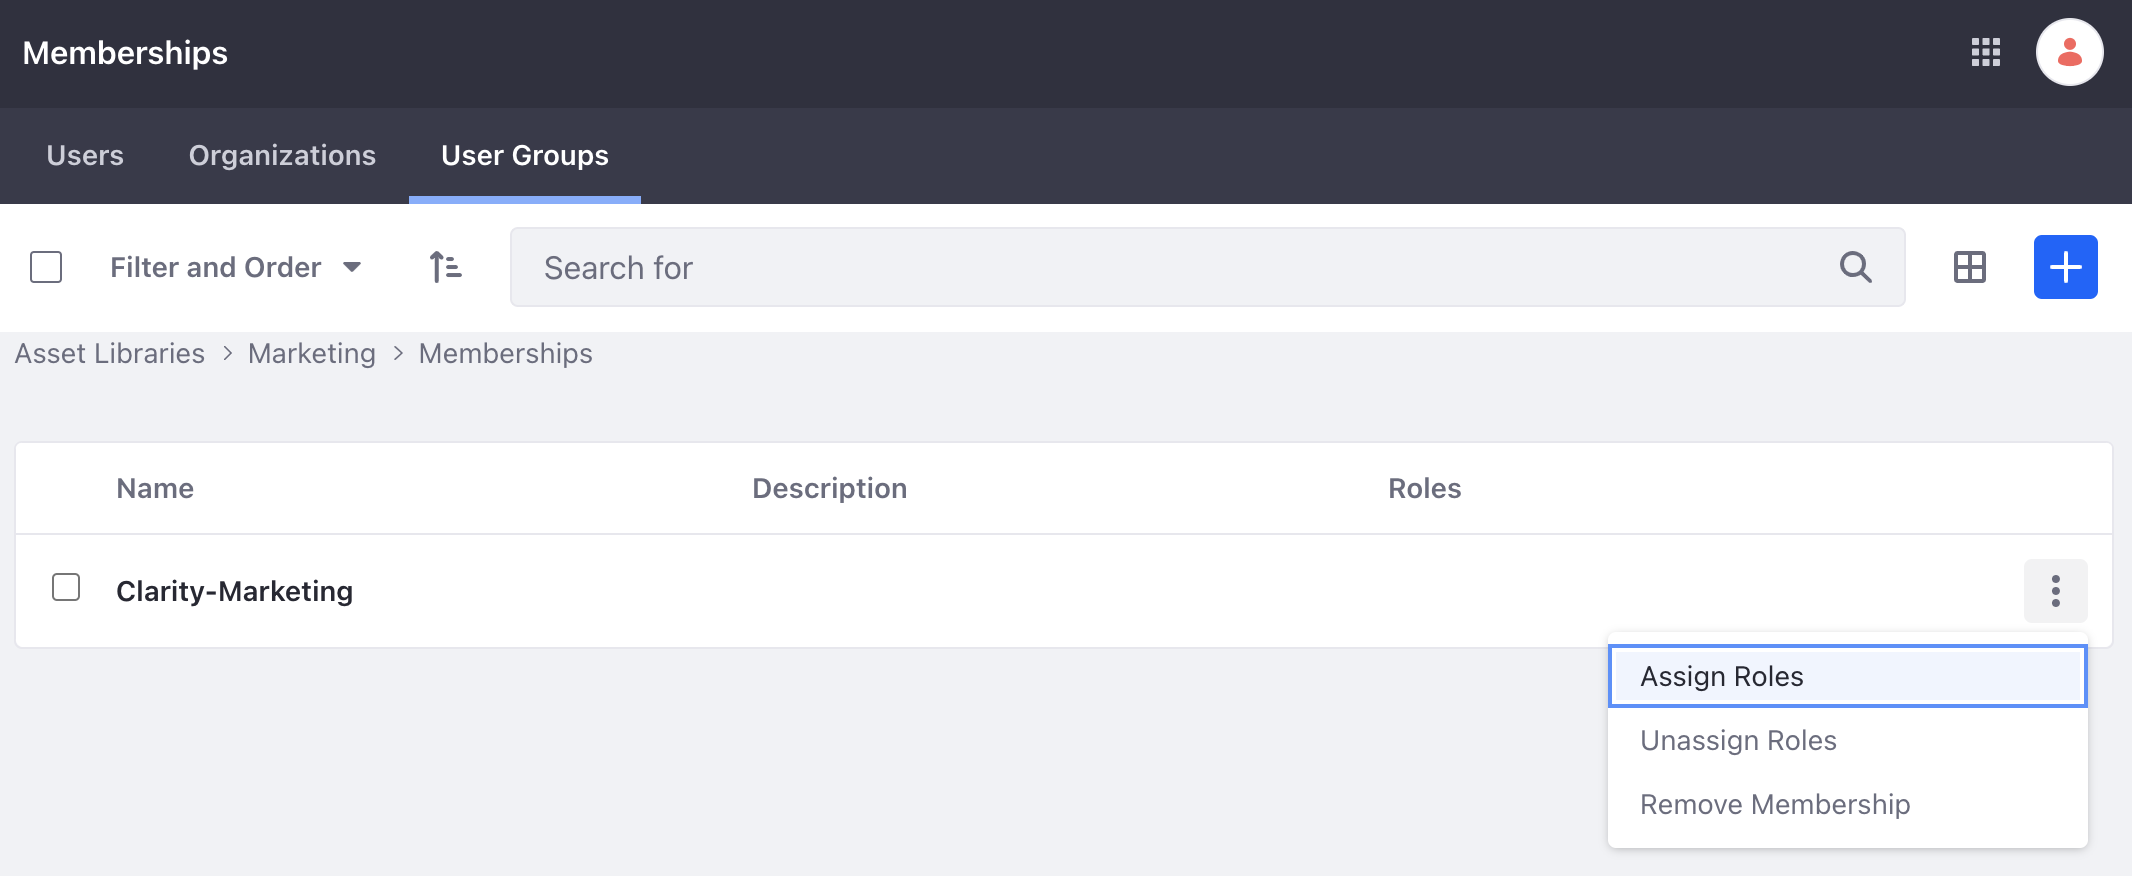
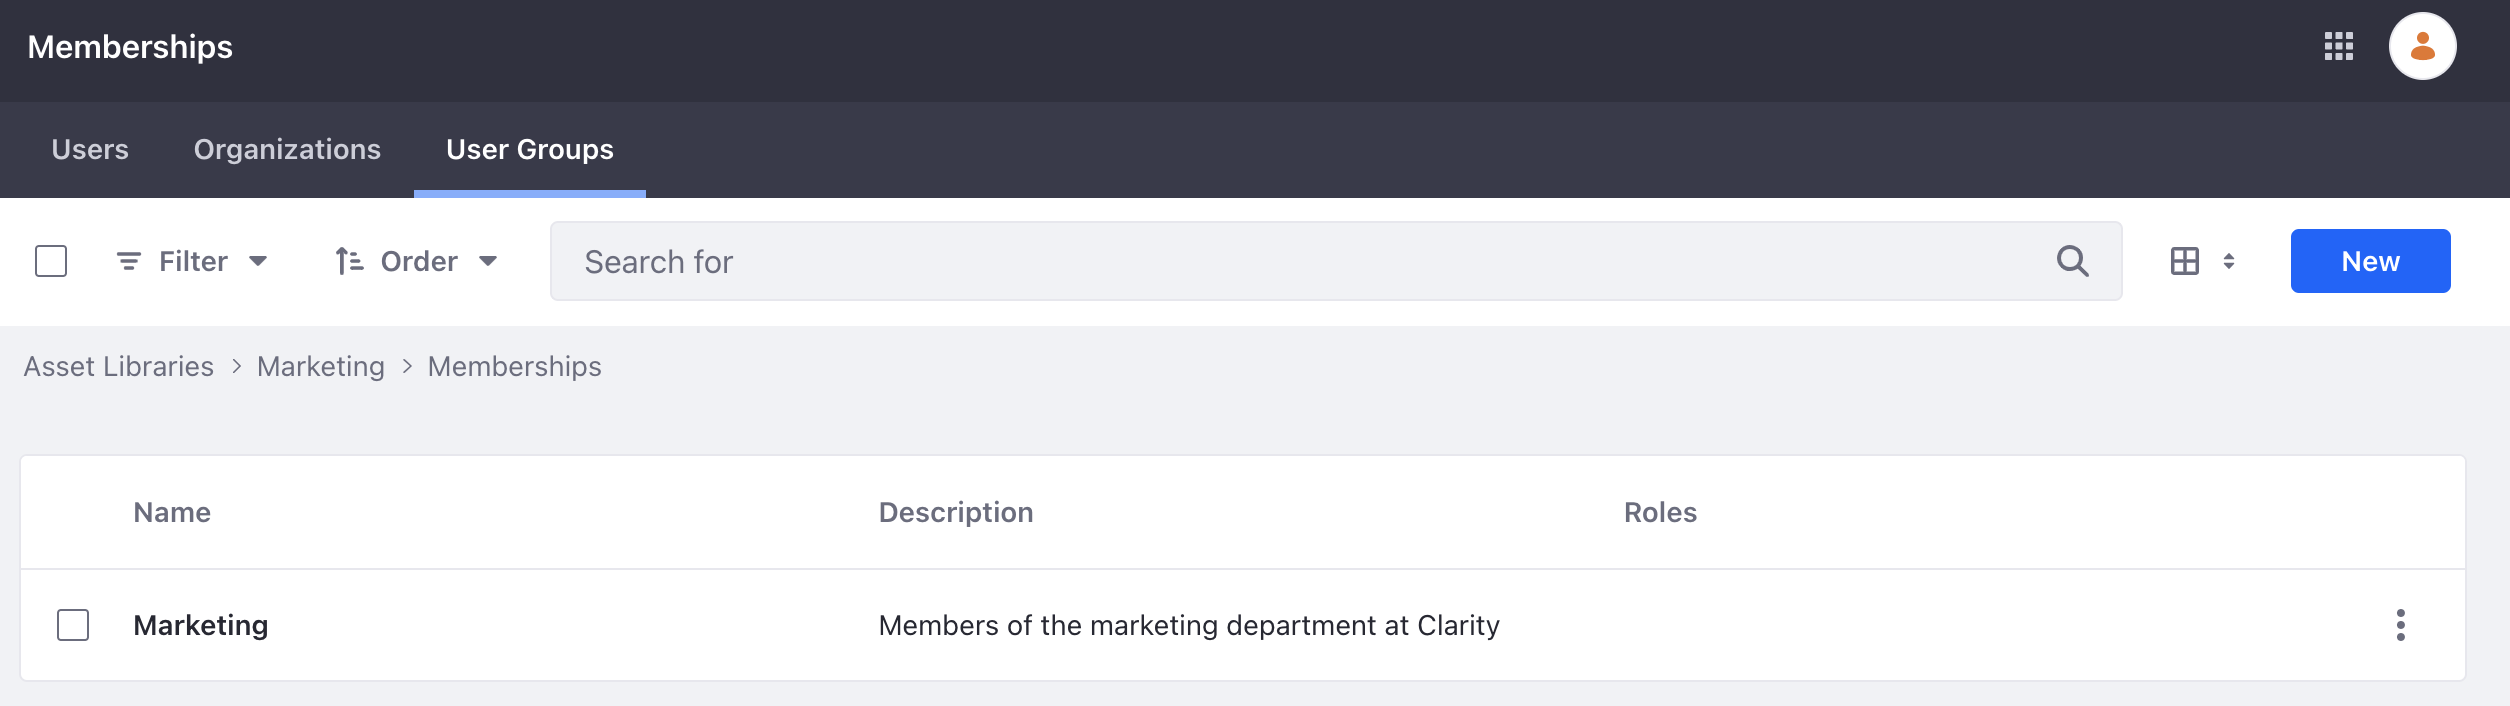
LRDOCS-12703 rm accounts article

diff --git a/docs/courses/latest/en/building-enterprise-websites-with-liferay/module-5-users-and-permissions/managing-and-organizing-clarity-users.md b/docs/courses/latest/en/building-enterprise-websites-with-liferay/module-5-users-and-permissions/managing-and-organizing-clarity-users.md
@@ -9,14 +9,11 @@ The primary concern in user management is managing user access to content and pl
 
 At Clarity, each person has different responsibilities in developing the new enterprise website. Let's take a closer look at the different types of users involved, their roles, the groups they belong to, and the responsibilities they have for the site.
 
-| Name | Role | User Group | Responsibility|
-|:--- |:--- |:--- |:--- |
-| Ian Miller | IT Manager | Clarity-IT | Ensures efficient operation of IT infrastructure by aligning technology strategy with organizational objectives. |
-| Jane Newton | Marketing Content Manager | Clarity-Marketing | Creates and implements content strategies to attract and engage visitors, driving brand awareness and conversions. |
-
 ## Defining Roles and Permissions
 
 Permissions are individual checks that determine whether a user can access a specific resource or perform a certain activity. For example, creating or editing a blog post. In Liferay, permissions are assigned to roles, as opposed to being assigned to individuals. Roles then serve as a collection of permissions. Using roles promotes reuse within the permissions structures and discourages directly assigning permissions to individual users.
+
+In Liferay, permissions are generally divided into two categories: application permissions and resource permissions. Application permissions pertain to access to different parts of Liferay UI (e.g. visibility to certain certain sections of the applications menu or control panel). Resource permissions, on the other hand, pertain to access to the Liferay data itself (e.g. read or write privileges for Liferay blogs).
 
 Liferay provides [out-of-the-box roles](https://learn.liferay.com/en/w/dxp/users-and-permissions/roles-and-permissions/understanding-roles-and-permissions). Custom roles can also be created with your choice of permissions to fit your business. Then, these roles can then be assigned to Liferay users.
 
@@ -39,57 +36,51 @@ To increase efficiency, roles can also be assigned to entire user groups. The pu
 
 Let’s take a look at how we could create user groups, roles and permissions for Jane Newton to be able to access and edit relevant content for marketing. 
 
-!!! note
-    The following exercises assume that you already have the Clarity site up and running and have the sample Clarity users, roles, etc.
-
 ### Exercise 1 - Assigning the Permissions and Roles for the Marketing User Group
 
 1. Let's impersonate Jane Newton to see what the application looks like from her point of view. 
    1. Navigate to _Control Panel_ &rarr; _Users and Organizations_. 
    1. Click on the options icon next to Jane Newton and click _Impersonate User_. Notice how she does not have access to any of the resources she needs (e.g. site menu, asset library, etc.).
 
-1. Verify the permissions for the Clarity content manager role.
+1. Assign the correct permissions for the marketing specialist role.
 
-    ![Verify the permissions for the content manager role.](./managing-and-organizing-clarity-users/images/01.png)
+    ![Assign permissions to the marketing specialist role.](./managing-and-organizing-clarity-users/images/01.png)
 
-    1. Navigate to _Control Panel_ &rarr; _Roles_. Click on the Clarity content manager role.
-    1. Click on the _Define Permissions_ tab. Notice how the content manager role has permissions around asset libraries and site pages. This is because the content managers need access to asset libraries and pages. Permissions can be added or removed from this definitions page. For example, permissions for blogs might also be added for the role.
+    1. Navigate to _Control Panel_ &rarr; _Roles_. Click on the _Marketing Specialist_ role.
+    1. Click on the _Define Permissions_ tab. 
+    1. In the left menu, navigate to _Applications Menu_ &rarr; _Content_ &rarr; _Asset Libraries_. Under the applications permissions section, select _Access in Control Panel_ and _View_. Under the asset library entry section, select _View Site and Asset Library Administration Menu_. Click _Save_.
+    1. Still in the left menu, navigate to _Site and Asset Library Administration_ &rarr; _Content & Data_ &rarr; _Documents and Media_. Under the general permissions, select _Access in Site and Asset Library Administration_ and _View_. Under documents, select _View_. Under document folder, select _View_. Click _Save_.
+    1. Still in the left menu, navigate to _Site and Asset Library Administration_ &rarr; _Site Builder_ &rarr; _Pages_. Under the page section, select _Update_. Click _Save_.
 
-1. Now that the permissions for the role have been verified, let's assign a user group to the role. Note that Liferay roles can also be assigned to individual users, but assigning it to user groups promotes reusability and ease of future maintenance as discussed above. 
+    Now the marketing specialist role has permissions around asset libraries and site pages. This is because marketing specialists need access to asset libraries and pages.
+
+1. Now that the permissions for the role have been set, let's assign a user group to the role. Note that Liferay roles can also be assigned to individual users, but assigning it to user groups promotes reusability and ease of future maintenance as discussed above. 
 
     ![Assign a user group to the role.](./managing-and-organizing-clarity-users/images/02.png)
 
-    1. Still within the edit page for the Clarity content manager role, click on the _Assignees_ tab. 
+    1. Still within the edit page for the marketing specialist role, click on the _Assignees_ tab. 
     1. Click the _User Groups_ tab. 
-    1. Click the add button and assign the Clarity marketing user group to role. 
+    1. Click the add button and assign the marketing user group to role. 
 
-1. Let's make sure that Jane Newton is part of the clarity marketing user group. 
+1. Let's make sure that Jane Newton is part of the marketing user group. 
     1. Navigate to _Control Panel_ &rarr; _User Groups_.
-    1. Click the options icon next to the Clarity marketing user group and click _Assign Members_. 
+    1. Click the options icon next to the marketing user group and click _Assign Members_. 
     1. Click the add button and assign Jane Newton to the user group.
 
-1. Content managers also need access to Clarity's marketing asset library, so let's check that as well. Verify the permissions for the Clarity asset library manager role.
-    1. Navigate to _Control Panel_ &rarr; _Roles_. 
-    1. Click on the asset library roles tab. 
-    1. Click on the Clarity asset library manager role. 
-    1. Click on the _Define Permissions_ tab. Notice how the role has permissions around asset libraries as well as documents and media. Permissions can be added or removed from this definitions page.
-
-1. Let's associate the correct asset library to this asset library role. 
+1. Marketing specialists also need access to Clarity's marketing asset library, so let's associate the correct asset library to this asset library role. 
     1. Navigate to _Applications_ &rarr; _Asset Libraries_ and click on the marketing asset library. 
     1. Scroll down and click _Memberships_. 
     1. Click the user groups tab and click the add icon. 
-    1. Assign the Clarity marketing user group to the membership. 
+    1. Assign the marketing user group to the membership. 
 
         ![Assign a role to the user group.](./managing-and-organizing-clarity-users/images/03.png)
-
-    1. Then, click on the options icon of the Clarity marketing user group and click assign roles. Assign the Clarity asset library manager role.
 
 1. Let's impersonate Jane Newton again to verify what she can access. 
     1. Navigate to _Control Panel_ &rarr; _Users and Organizations_. 
     1. Click on the options icon next to Jane Newton and click _Impersonate User_. 
     1. Notice that she now has access to the product menu to add and edit site pages. She also has access to the asset library under the applications menu.
 
-Well done! Now everyone in the Clarity marketing user group has the correct permissions on the platform.
+Well done! Now everyone in the marketing user group has the correct permissions on the platform.
 
 To learn more about user management in general, see our [documentation](https://learn.liferay.com/w/dxp/users-and-permissions).
 

diff --git a/docs/courses/latest/en/building-enterprise-websites-with-liferay/module-5-users-and-permissions/users-and-permissions-setup.md b/docs/courses/latest/en/building-enterprise-websites-with-liferay/module-5-users-and-permissions/users-and-permissions-setup.md
@@ -12,10 +12,14 @@ Here are some of the Clarity team members:
 | Screen Name | Email | First Name | Last Name | Job Title |
 |:---|:---|:---|:---|:---|
 | ianmiller | ian.miller@clarityvisionsolutions.com | Ian | Miller | IT Manager |
+| janenewton | jane.newton@clarityvisionsolutions.com | Jane | Newton | Marketing Specialist |
+
+<!---
 | walterdouglas | walter.douglas@clarityvisionsolutions.com | Walter | Douglas | Web Developer |
 | claramurphy | clara.murphy@clarityvisionsolutions.com | Clara | Murphy | Marketing Manager |
 | christiancarter | christian.carter@clarityvisionsolutions.com | Christian | Carter | Marketing Coordinator |
 | harperroberts | harper.roberts@clarityvisionsolutions.com | Harper | Roberts | Director of Human Resources |
+--->
 
 Follow the steps below to create these user accounts:
 
@@ -44,26 +48,29 @@ In addition to the default roles that ship with Liferay, Clarity needs some cust
 
 | Type | Title | Description |
 |:---|:---|:---|
-| Regular | IT Manager | Organizational title reserved for a Manager within the IT Department. |
-| Regular | Web Developer | Organizational title reserved for the front end Developer role within the IT Department. |
-| Regular | Marketing Manager | Organizational title reserved for the Manager member of the Marketing Team. |
-| Regular | Marketing Coordinator | Organizational title reserved for an individual contributor from the Marketing Team. |
-| Regular | Director of Human Resources | Organizational title reserved for the Director of Human Resources. |
-| Site | Site Content Contributor | Site based role for an individual who will be contributing. |
+| Regular | IT Manager | Organizational title for a manager within the IT department |
+| Regular | Marketing Specialist | Organizational title for a marketing specialist on the marketing team |
+
+<!---
+| Regular | Web Developer | Organizational title for a front end developer role within the IT Department |
+| Regular | Marketing Coordinator | Organizational title for an individual contributor from the Marketing Team |
+| Regular | Director of Human Resources | Organizational title for a Director of Human Resources |
+| Site | Site Content Contributor | Site based role for an individual who will be contributing |
+--->
 
 Follow the steps below to create these roles:
 
 1. Open the applications menu and navigate to _Control Panel_ &rarr; _Roles_.
 
-1. Click _New_ to create a new role.
+2. Click _New_ to create a new role.
 
-1. Select the role type (e.g. `Regular`).
+3. Select the role type (e.g. `Regular`).
 
-1. Input the role title (e.g. `IT Manager`).
+4. Input the role title (e.g. `IT Manager`).
 
-1. Input the role description (e.g. `Organizational title reserved for a Manager within the IT Department.`).
+5. Input the role description (e.g. `Organizational title for a manager within the IT department`).
 
-1. Click _Save_ and navigate back out to the list of roles. Continue making each of the roles listed in the table.
+6. Click _Save_ and navigate back out to the list of roles. Continue making each of the roles listed in the table.
 
 !!! note
    The roles above do not yet have any permissions assigned to them. The succeeding lessons will cover assigning permissions to roles.
@@ -74,8 +81,8 @@ Here are some of Clarity's user groups:
 
 | Name | Description |
 |:---|:---|
-| Marketing | Members of the marketing department at Clarity |
 | IT | Members of the IT department at Clarity |
+| Marketing | Members of the marketing department at Clarity |
 
 Follow the steps below to create these user groups:
 
@@ -83,9 +90,9 @@ Follow the steps below to create these user groups:
 
 1. Click _New_ to create a new user group.
 
-1. Input the user group name (e.g. `Marketing`).
+1. Input the user group name (e.g. `IT`).
 
-1. Input the user group description (e.g. `Members of the marketing department at Clarity`).
+1. Input the user group description (e.g. `Members of the IT department at Clarity`).
 
 1. Click _Save_. Continue making each user group listed in the table.
 

diff --git a/docs/courses/latest/en/building-enterprise-websites-with-liferay/module-5-users-and-permissions/claritys-users-and-permissions-requirements.md b/docs/courses/latest/en/building-enterprise-websites-with-liferay/module-5-users-and-permissions/claritys-users-and-permissions-requirements.md
@@ -3,19 +3,25 @@ uuid: 9ed9ff58-6195-464f-8361-9b83f3f43194
 ---
 # Clarity's Users and Permissions Requirements
 
-Before we talk about the different ways to manage users and set permissions, let's look a little closer at some of the specific requirements Clarity has for its users.
+User management is an important part of any organization's IT procedures and policies. Managing users goes beyond just providing view access based on roles and permissions. User management is about determining what permissions users have into things such as application UI functionality, content creation, sensitive information and more. Having good user management is especially critical in a company's lifecycle such a in onboarding or offboarding their employees.
 
-### Clarity wants non-technical team members to be able to manage users.
+## Requirements
+
+As a growing organization, Clarity has some processes in place, but there's definitely room for improvement. Let's look a little closer at some of the specific requirements Clarity has for its users.
+
+### User management that is capable by non-technical team members
 
 Liferay's robust user management tools come ready to use all from within the Liferay UI. No programming or custom code is required to create and manage users. Even customization such as custom fields or custom roles can be accomplished from the UI. This means that non-technical team members can cover all aspects of managing users without the need for IT staff. Some examples include managing roles and permissions, managing organizations and user groups, and leveraging accounts.
 
-### Clarity wants all users to have the necessary and appropriate platform privileges.
+### Precise permissioning tools that provide Clarity users with the necessary and appropriate platform privileges
 
 With Liferay's permissioning tools, you can create precise roles with specific permissions. In Liferay, permissions are additive for each role, as opposed to subtractive. This means that users will only have the permissions that you assign and intend for them to have. This way, you ensure that users only have access to the things they need.
 
-### Clarity wants reusable user segments to reduce management time and costs.
+### Reduce management time and costs through reusable user segments
 
 In Liferay, permissions are not only assignable to roles but also to user groups. If users in a specific group should have the same access and permissions on the platform, it makes sense for them to be grouped together with one set of permissions. Furthermore, user groups can be assigned automatically from user directories, as we saw in the previous module. This saves time and energy because new users who authenticate to Liferay won't need roles or permissions assigned to them, but will automatically receive the appropriate permissions of their user group.
+
+## Conclusion
 
 Now let's move on to some initial set up we need for Clarity's team members.
 

diff --git a/docs/courses/latest/en/building-enterprise-websites-with-liferay/module-5-users-and-permissions.md b/docs/courses/latest/en/building-enterprise-websites-with-liferay/module-5-users-and-permissions.md
@@ -16,14 +16,12 @@ uuid: 36dd306c-d71e-4606-95c2-da8acea64686
 
 In the previous module, we saw Clarity bring over their team members through Okta, along with the user groups they belong to. In this module, we’re going to learn best practices on how to use Liferay features to manage these new Liferay users. Grant the right amount of platform access and permissions so that users can do everything they need to do but nothing they shouldn't.
 
-Access based on roles and permissions goes beyond just viewing content. Roles and permissions also determine visibility into functionality, content creation, sensitive information, and more.
-
 In this module, you will learn:
 
 * The specific users and permissions requirements Clarity has
 * How to do some initial set up for Clarity's team members
 * How to use Liferay’s user management tools and manage permissions
-* How to model B2B relationships with Liferay accounts
+* How to use Liferay permissions to secure Clarity content
 
 Up First: [Clarity's Users and Permissions Requirements](./module-5-users-and-permissions/claritys-users-and-permissions-requirements.md)
 
@@ -48,8 +46,8 @@ See how to do some initial set up for Clarity's team members.
 Learn how Liferay tools can be used to manage users and assign roles and permissions.
 :::
 
-:::{grid-item-card}  Modeling B2B Relationships with Liferay Accounts
-:link: ./module-5-users-and-permissions/modeling-b2b-relationships-with-liferay-accounts.md
+:::{grid-item-card}  Securing Clarity Content
+:link: ./module-5-users-and-permissions/securing-clarity-content.md
 
-Learn about creating and managing accounts in Liferay.
+Dive deeper into Liferay permissions to secure Clarity content.
 :::

diff --git a/docs/courses/latest/en/building-enterprise-websites-with-liferay/module-5-users-and-permissions/securing-clarity-content.md b/docs/courses/latest/en/building-enterprise-websites-with-liferay/module-5-users-and-permissions/securing-clarity-content.md
@@ -1,0 +1,6 @@
+---
+uuid: d0e00ca4-89fe-4861-9634-88b2a4162e6c
+---
+# Securing Clarity Content
+
+
